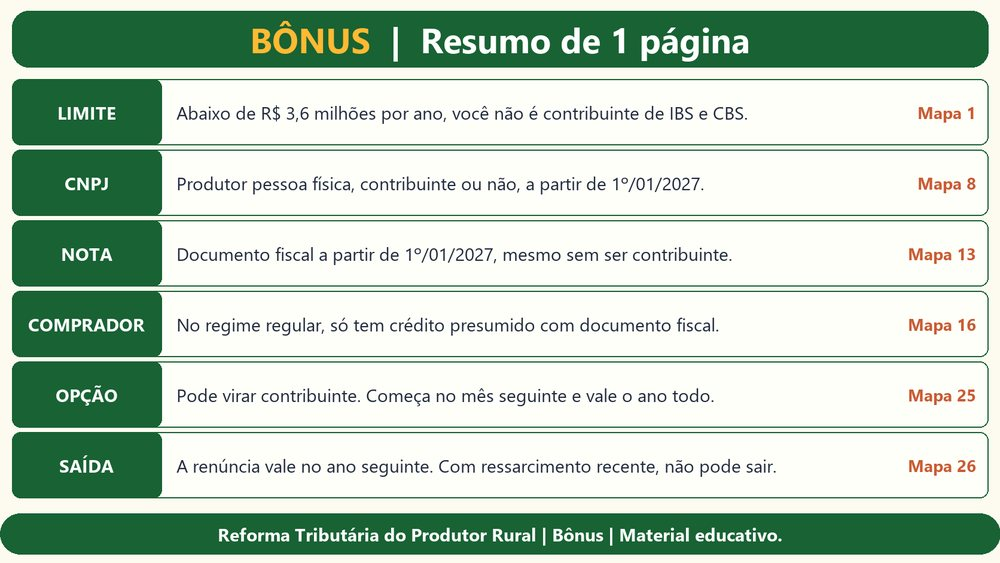
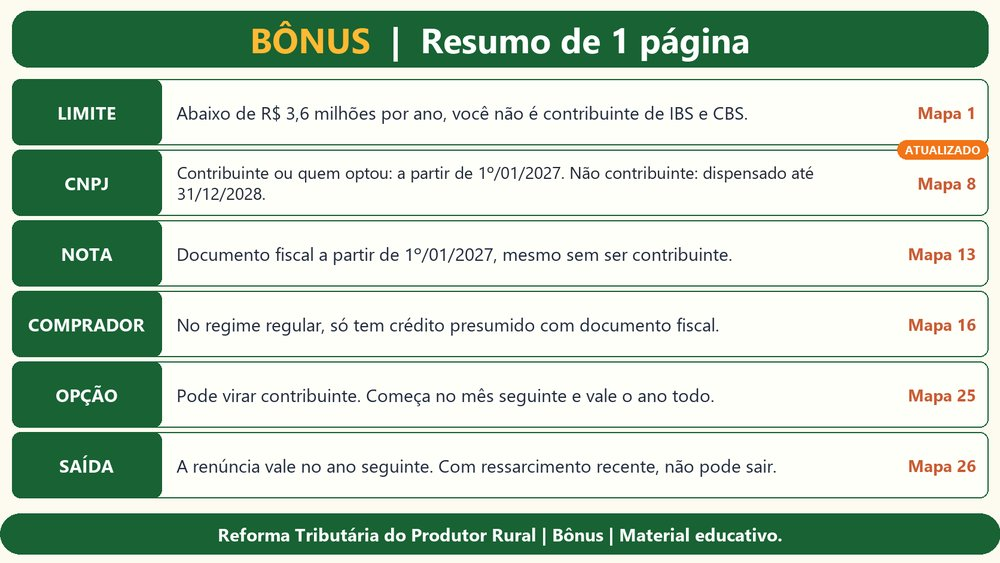
Atualiza a pagina com a dispensa do CNPJ ate 2028 (Ato Conjunto n 8)
Headlines, contagem, FAQ, fontes e imagens dos mapas 8, 10 e 29,
dos 8 erros, do resumo e da mensagem 1 passam a refletir a regra
publicada em 18/11/2026.

Changed region(s): [[0.155, 0.2718, 0.806, 0.3623], [0.899, 0.2416, 0.992, 0.302]]

diff --git a/index.html b/index.html
@@ -3,8 +3,8 @@
 <head>
 <meta charset="utf-8">
 <meta name="viewport" content="width=device-width, initial-scale=1">
-<title>CNPJ do Produtor Rural em 2027 | +30 Mapas Visuais</title>
-<meta name="description" content="Entenda em mapas visuais quem precisa de CNPJ, como fica a nota e o que organizar antes de 1º de janeiro de 2027.">
+<title>CNPJ do Produtor Rural: 2027 ou 2028? | +30 Mapas Visuais</title>
+<meta name="description" content="Entenda em mapas visuais se você precisa de CNPJ em 2027 ou está dispensado até 2028, como fica a nota e o que organizar antes de 1º de janeiro de 2027.">
 <link rel="preconnect" href="https://fonts.googleapis.com">
 <link rel="preconnect" href="https://fonts.gstatic.com" crossorigin>
 <link href="https://fonts.googleapis.com/css2?family=Inter:wght@400;500;600;700;800;900&display=swap" rel="stylesheet">
@@ -144,27 +144,27 @@ fbq('track', 'PageView');
 <noscript><img height="1" width="1" style="display:none" alt="" src="https://www.facebook.com/tr?id=1181147460902461&ev=PageView&noscript=1"></noscript>
 
 
-<div class="topo" id="contagem">Vale a partir de 1º de janeiro de 2027</div>
+<div class="topo" id="contagem">Novas regras da nota a partir de 1º de janeiro de 2027</div>
 
 <header class="hero">
   <div class="wrap hero-grid">
     <div>
       <span class="eyebrow">Para o produtor rural pessoa física</span>
-      <h1 id="headline">CNPJ do produtor em 2027: entenda em mapas o que muda para você</h1>
+      <h1 id="headline">Preciso de CNPJ em 2027 ou estou dispensado até 2028? Veja em mapas</h1>
       <script>
       (function(){
         // Headline igual ao gancho do anúncio, lido do utm_content (nome do anúncio no Meta)
         var c=(new URLSearchParams(location.search).get('utm_content')||'').toUpperCase();
         var h={
-          '_DOR_':'O CNPJ de 2027 não é só para quem fatura R$ 3,6 milhões',
-          '_LIMITE_':'O CNPJ de 2027 não é só para quem fatura R$ 3,6 milhões',
+          '_DOR_':'CNPJ do produtor adiado até 2028: veja se vale para você',
+          '_LIMITE_':'Abaixo de R$ 3,6 milhões? Veja se o seu CNPJ ficou para depois de 2028',
           '_EMPRESA_':'Vou ter que abrir empresa? Veja em mapas o que muda para o produtor',
           '_NICHO_':'Por que o comprador vai pedir sua nota em 2027'
         };
         for(var k in h){ if(c.indexOf(k)>-1){ document.getElementById('headline').textContent=h[k]; break; } }
       })();
       </script>
-      <p class="sub">São +30 mapas visuais em PDF para ver quem precisa de CNPJ, como fica a nota e o que organizar antes de janeiro. Consulte no celular.</p>
+      <p class="sub">São +30 mapas visuais em PDF para ver se você precisa de CNPJ ou está dispensado até 2028, como fica a nota e o que organizar antes de janeiro. Atualizado com a regra de 18/11/2026. Consulte no celular.</p>
       <div class="cta">
         <a class="btn" href="#oferta">QUERO ACESSAR AGORA</a>
         <p class="seguro">🔒 Compra segura · Acesso imediato · Garantia de 7 dias</p>
@@ -189,11 +189,12 @@ fbq('track', 'PageView');
     <div class="head">
       <span class="eyebrow">De onde vem o conteúdo</span>
       <h2>Feito a partir da lei, não de boato</h2>
-      <p>Cada regra dos mapas foi conferida no texto oficial publicado no site do Planalto.</p>
+      <p>Cada regra dos mapas foi conferida no texto oficial publicado no site do Planalto e do Comitê Gestor do IBS.</p>
     </div>
     <div class="cards">
       <div class="card"><h3>Lei Complementar 214/2025</h3><p>A lei da reforma tributária que criou o IBS e a CBS e define o limite de R$ 3,6 milhões.</p></div>
-      <div class="card"><h3>Decreto 12.955/2026</h3><p>O regulamento que trata do CNPJ e da nota do produtor pessoa física a partir de 2027.</p></div>
+      <div class="card"><h3>Decreto 12.955/2026</h3><p>O regulamento que trata do CNPJ e da nota do produtor pessoa física.</p></div>
+      <div class="card"><h3>Ato Conjunto nº 8/2026</h3><p>A regra de 18/11/2026 que dispensa do CNPJ, até 31/12/2028, o produtor não contribuinte que não optou.</p></div>
       <div class="card"><h3>CNA e Ministério da Fazenda</h3><p>O que eles informam sobre a inscrição e sobre você continuar como pessoa física.</p></div>
     </div>
     <p class="nota-fonte">Material educativo independente, sem vínculo com o governo.</p>
@@ -241,7 +242,7 @@ fbq('track', 'PageView');
 
 <section class="urgencia">
   <div class="wrap">
-    <span class="prazo" id="prazo-oferta">A regra vale a partir de 1º de janeiro de 2027</span>
+    <span class="prazo" id="prazo-oferta">As novas regras da nota começam em 1º de janeiro de 2027</span>
     <p>Acesso imediato depois da compra. Você já começa a se organizar hoje.</p>
     <a class="btn" href="#oferta">QUERO ACESSAR AGORA</a>
   </div>
@@ -286,7 +287,7 @@ fbq('track', 'PageView');
     </div>
     <div class="bonus-grid">
       <div class="bcard"><div class="planilha"><b>R$ 3,6 mi</b><span>Medidor do Limite</span></div><div class="btxt"><span class="tag">BÔNUS 1</span><h3>Planilha Medidor do Limite</h3><p>Digite suas vendas e veja quanto do limite já usou e quando a situação muda.</p></div></div>
-      <div class="bcard"><img loading="lazy" src="img/bonus-erros.jpg" width="1000" height="563" alt="Os 8 erros sobre o CNPJ de 2027"><div class="btxt"><span class="tag">BÔNUS 2</span><h3>Os 8 erros sobre o CNPJ de 2027</h3><p>O que muita gente entende errado, com a explicação ao lado.</p></div></div>
+      <div class="bcard"><img loading="lazy" src="img/bonus-erros.jpg" width="1000" height="563" alt="Os 8 erros sobre o CNPJ do produtor"><div class="btxt"><span class="tag">BÔNUS 2</span><h3>Os 8 erros sobre o CNPJ do produtor</h3><p>O que muita gente entende errado, com a explicação ao lado.</p></div></div>
       <div class="bcard"><img loading="lazy" src="img/bonus-resumo.jpg" width="1000" height="563" alt="Resumo de 1 página"><div class="btxt"><span class="tag">BÔNUS 3</span><h3>Resumo de 1 página</h3><p>O essencial sobre limite, CNPJ, nota e opção, para consultar ou imprimir.</p></div></div>
       <div class="bcard"><img loading="lazy" src="img/bonus-01.jpg" width="1000" height="563" alt="Ficha da receita do ano"><div class="btxt"><span class="tag">BÔNUS 4</span><h3>5 fichas para imprimir</h3><p>Receita, propriedades e sociedades, compradores, produtos e dúvidas.</p></div></div>
       <div class="bcard"><img loading="lazy" src="img/bump-01.jpg" width="1000" height="563" alt="Mensagem pronta para o comprador"><div class="btxt"><span class="tag">BÔNUS 5</span><h3>5 mensagens prontas de WhatsApp</h3><p>Para falar com comprador, emissor de notas, sindicato, cooperativa e contador.</p></div></div>
@@ -327,7 +328,7 @@ fbq('track', 'PageView');
           <li>+30 mapas visuais em PDF</li>
           <li>Acesso no celular ou para imprimir</li>
           <li><b>Planilha Medidor do Limite</b></li>
-          <li><b>Os 8 erros sobre o CNPJ de 2027</b></li>
+          <li><b>Os 8 erros sobre o CNPJ do produtor</b></li>
           <li><b>Resumo de 1 página</b></li>
           <li><b>5 fichas para imprimir</b></li>
           <li><b>5 mensagens prontas de WhatsApp</b></li>
@@ -358,7 +359,8 @@ fbq('track', 'PageView');
       <span class="eyebrow">Perguntas frequentes</span>
       <h2>Tire suas dúvidas</h2>
     </div>
-    <details><summary>O CNPJ é só para quem fatura mais de R$ 3,6 milhões?</summary><p>Não. Esse limite define quem é contribuinte de IBS e CBS. O regulamento da CBS prevê a inscrição também para o produtor pessoa física que não é contribuinte, a partir de 1º de janeiro de 2027.</p></details>
+    <details><summary>Todo produtor vai precisar de CNPJ em 2027?</summary><p>Não. O Ato Conjunto RFB/CGIBS nº 8, de 13/11/2026, dispensa do CNPJ, de 1º/01/2027 a 31/12/2028, o produtor pessoa física que não é contribuinte (receita abaixo de R$ 3,6 milhões) e não optou pelo regime regular. Quem é contribuinte ou optou continua precisando do CNPJ a partir de 1º/01/2027. A nova nota fiscal começa em 2027. Os mapas mostram em qual caso você está.</p></details>
+    <details><summary>Comprei antes da mudança. Recebo o material atualizado?</summary><p>Sim. O material foi atualizado em 26/11/2026 com a regra nova, e o link de acesso continua o mesmo.</p></details>
     <details><summary>Vou ter que abrir uma empresa?</summary><p>Segundo a CNA e o Ministério da Fazenda, a inscrição não muda sua condição: você continua produtor pessoa física. Os mapas 8 e 11 explicam isso.</p></details>
     <details><summary>Terei que contratar um contador?</summary><p>Este material não responde a isso caso a caso. A CNA informa que a inscrição do produtor pessoa física será automática, em um sistema simplificado que a Receita está desenvolvendo. Se a sua situação for mais complexa, vale buscar orientação profissional.</p></details>
     <details><summary>Como fica quem emite nota avulsa e não tem inscrição estadual?</summary><p>O material não cobre esse caso, porque pode depender das regras do seu estado. Procure a Secretaria da Fazenda do estado ou o sindicato rural da sua região.</p></details>
@@ -381,7 +383,7 @@ fbq('track', 'PageView');
   <div class="wrap">
     <b>+30 Mapas Visuais da Reforma Tributária para o Produtor Rural</b>
     <p>Material educativo independente, sem vínculo com o governo. Não substitui orientação profissional.</p>
-    <p>Conteúdo baseado na LC 214/2025 e no Decreto 12.955/2026. As regras ainda podem mudar.</p>
+    <p>Conteúdo baseado na LC 214/2025, no Decreto 12.955/2026 e no Ato Conjunto RFB/CGIBS nº 8/2026. Atualizado em 26/11/2026. As regras ainda podem mudar.</p>
     <p>Contato: <a href="mailto:jecpo666@gmail.com">jecpo666@gmail.com</a></p>
     <p class="legal"><a href="privacidade.html">Política de Privacidade</a> · <a href="termos.html">Termos de Uso</a></p>
   </div>
@@ -390,13 +392,13 @@ fbq('track', 'PageView');
 <script>
 (function(){
   var alvo=new Date(2027,0,1), dias=Math.ceil((alvo-new Date())/864e5), el=document.getElementById('contagem');
-  if(dias>1) el.textContent='Faltam '+dias+' dias para 1º de janeiro de 2027';
-  else if(dias===1) el.textContent='Falta 1 dia para 1º de janeiro de 2027';
-  else el.textContent='CNPJ do produtor: regra em vigor desde 1º de janeiro de 2027';
+  if(dias>1) el.textContent='Faltam '+dias+' dias para as novas regras da nota (1º/01/2027)';
+  else if(dias===1) el.textContent='Falta 1 dia para as novas regras da nota (1º/01/2027)';
+  else el.textContent='Novas regras da nota em vigor desde 1º de janeiro de 2027';
   var po=document.getElementById('prazo-oferta');
-  if(dias>1) po.textContent='Faltam '+dias+' dias para a regra começar a valer';
-  else if(dias===1) po.textContent='Falta 1 dia para a regra começar a valer';
-  else po.textContent='A regra já está em vigor';
+  if(dias>1) po.textContent='Faltam '+dias+' dias para as novas regras da nota';
+  else if(dias===1) po.textContent='Falta 1 dia para as novas regras da nota';
+  else po.textContent='As novas regras da nota já estão em vigor';
   if(dias>0){
     var aviso=document.querySelector('#oferta .head p');
     aviso.textContent='Preço de lançamento até 31/12/2026. Pagamento único e acesso imediato depois da confirmação.';
